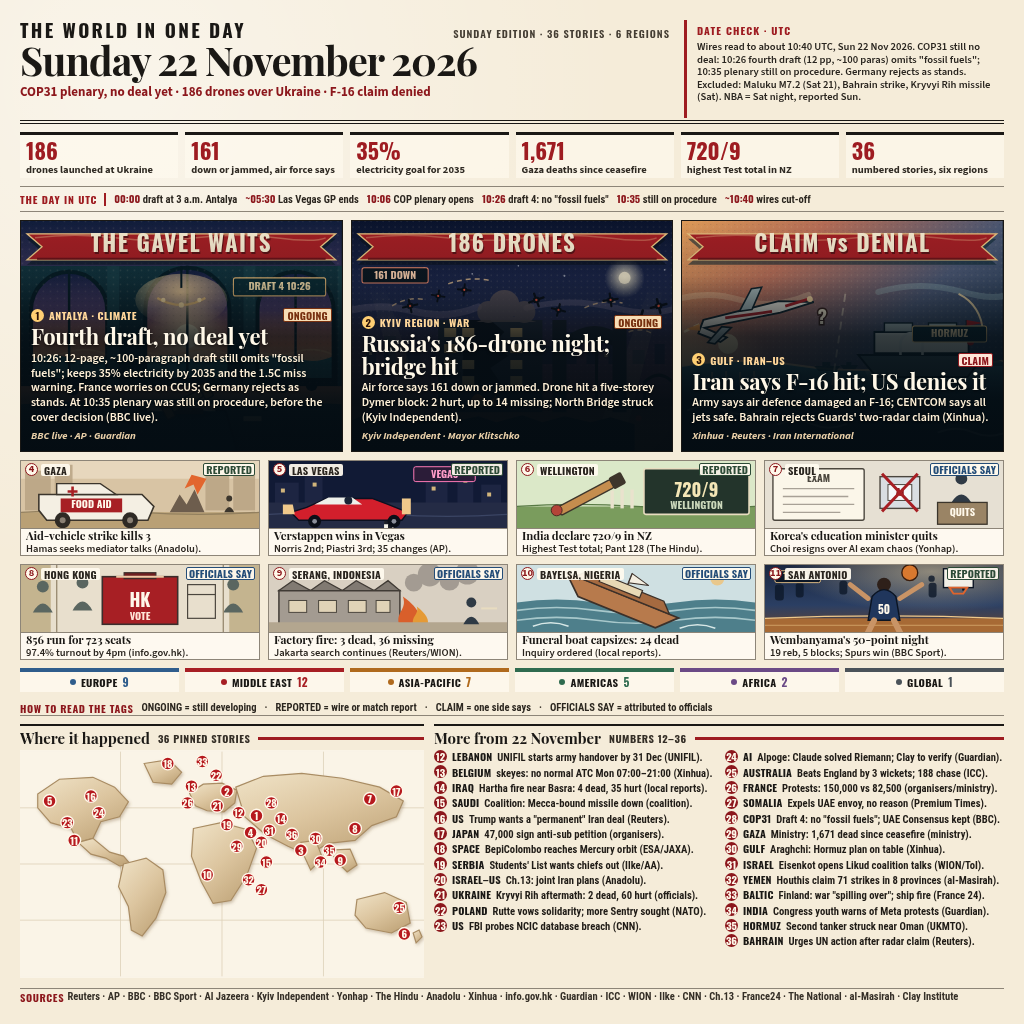
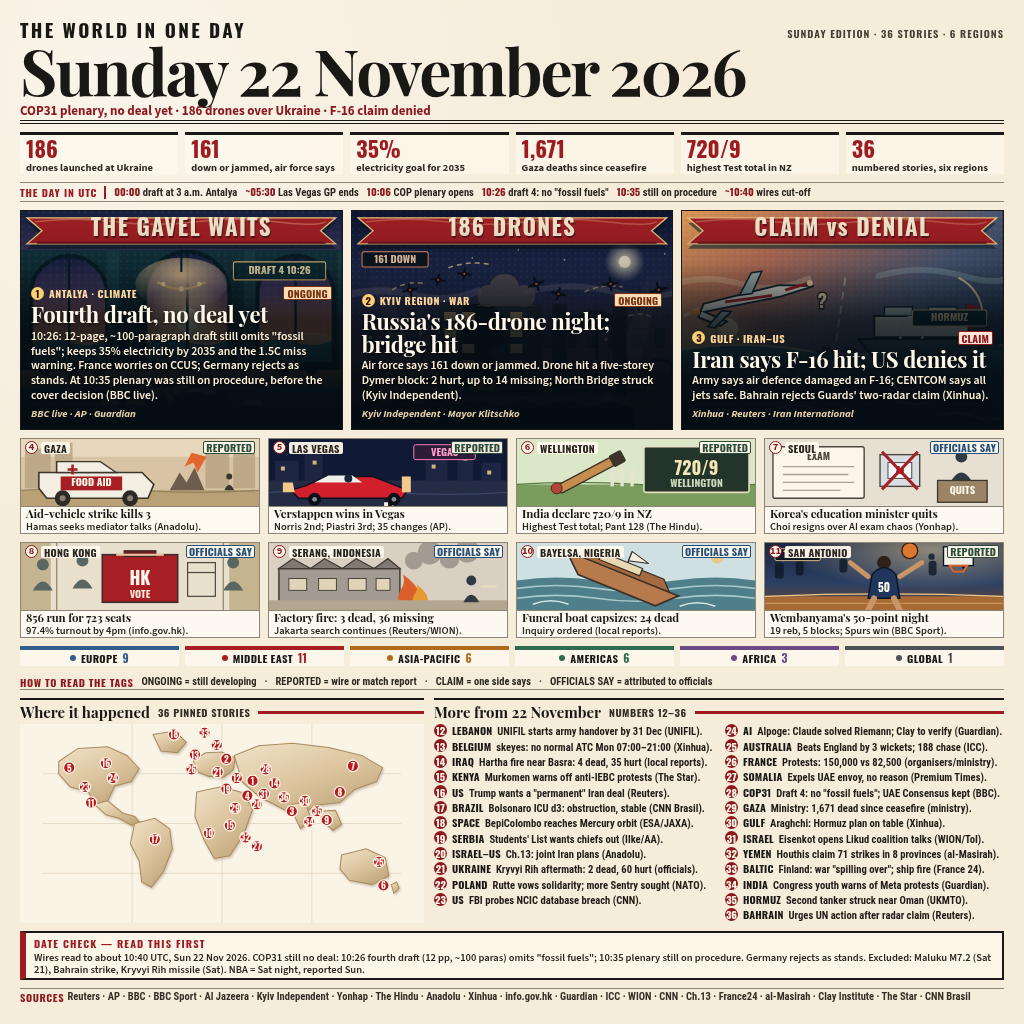
v8: dominant date masthead, Kenya/Brazil for breadth, DATE CHECK box

diff --git a/poster.html b/poster.html
@@ -31,7 +31,7 @@
     height: 1024px;
     padding: 20px;
     display: grid;
-    grid-template-rows: 104px 46px 26px 232px 200px 24px 16px 256px 16px;
+    grid-template-rows: 104px 42px 20px 220px 200px 20px 16px 225px 49px 16px;
     gap: 8px;
     overflow: hidden;
     background:
@@ -39,9 +39,7 @@
       var(--paper);
   }
   .masthead {
-    display: grid;
-    grid-template-columns: 1fr 320px;
-    gap: 14px;
+    display: block;
     border-bottom: 4px double var(--ink);
     padding-bottom: 2px;
     overflow: hidden;
@@ -49,11 +47,11 @@
   .mast-top { display: flex; justify-content: space-between; align-items: baseline; height: 18px; }
   .logo { font-family: "Oswald", sans-serif; font-size: 19px; font-weight: 700; letter-spacing: 2.3px; line-height: 1; }
   .edition { font-family: "Oswald", sans-serif; font-size: 10.5px; font-weight: 600; letter-spacing: 1px; color: var(--muted); }
-  .date { font-family: "Playfair Display", Georgia, serif; font-size: 40px; font-weight: 700; letter-spacing: -1.1px; line-height: 1; margin: 2px 0 4px; }
-  .deck { font-size: 13px; font-weight: 700; line-height: 16px; color: #8c171c; }
-  .datecheck { border-left: 3px solid var(--red); padding: 2px 0 0 10px; overflow: hidden; }
-  .datecheck h2 { font-family: "Oswald", sans-serif; font-size: 10.5px; font-weight: 700; letter-spacing: 1.1px; color: var(--red); margin: 0 0 3px; }
-  .datecheck p { font-size: 10.6px; font-weight: 600; line-height: 12.6px; margin: 0; color: #29251f; }
+  .date { font-family: "Playfair Display", Georgia, serif; font-size: 64px; font-weight: 700; letter-spacing: -2px; line-height: 1; margin: 0 0 2px; }
+  .deck { font-size: 13px; font-weight: 700; line-height: 14px; color: #8c171c; }
+  .datecheck { border: 2px solid var(--ink); border-left: 6px solid var(--red); background: rgba(255,250,239,.72); padding: 2px 8px; overflow: hidden; }
+  .datecheck h2 { font-family: "Oswald", sans-serif; font-size: 10.5px; font-weight: 700; letter-spacing: 1.1px; color: var(--red); margin: 0 0 1px; }
+  .datecheck p { font-size: 10.5px; font-weight: 600; line-height: 12px; margin: 0; color: #29251f; }
 
   .numbers { display: grid; grid-template-columns: repeat(6, 1fr); gap: 7px; }
   .stat {
@@ -199,7 +197,7 @@
   .panel-head { display: flex; align-items: center; gap: 8px; font-family: "Playfair Display", Georgia, serif; font-size: 15px; font-weight: 700; line-height: 18px; margin-bottom: 3px; white-space: nowrap; min-width: 0; }
   .panel-head::after { content: ""; flex: 1; height: 3px; background: var(--red); }
   .panel-head span { font-family: "Oswald", sans-serif; font-size: 10.5px; font-weight: 700; letter-spacing: .5px; color: #352f27; }
-  .map-wrap { width: 100%; height: 228px; background: #faf4e7; overflow: hidden; }
+  .map-wrap { width: 100%; height: 199px; background: #faf4e7; overflow: hidden; }
   .map-wrap svg { display: block; width: 100%; height: 100%; }
   .land { fill: url(#map-land); stroke: #a98c63; stroke-width: 1.2; filter: url(#map-shadow); }
   .gridline { stroke: #ddd0b8; stroke-width: .8; }
@@ -253,10 +251,6 @@
       <div class="date">Sunday 22 November 2026</div>
       <div class="deck">COP31 plenary, no deal yet · 186 drones over Ukraine · F-16 claim denied</div>
     </div>
-    <aside class="datecheck">
-      <h2>DATE CHECK · UTC</h2>
-      <p>Wires read to about 10:40 UTC, Sun 22 Nov 2026. COP31 still no deal: 10:26 fourth draft (12 pp, ~100 paras) omits "fossil fuels"; 10:35 plenary still on procedure. Germany rejects as stands. Excluded: Maluku M7.2 (Sat 21), Bahrain strike, Kryvyi Rih missile (Sat). NBA = Sat night, reported Sun.</p>
-    </aside>
   </header>
 
   <section class="numbers" aria-label="The day in numbers">
@@ -806,10 +800,10 @@
 
   <section class="regions" aria-label="Region coverage">
     <div class="region" style="--c: var(--eu)"><i></i>EUROPE <b>9</b></div>
-    <div class="region" style="--c: var(--me)"><i></i>MIDDLE EAST <b>12</b></div>
-    <div class="region" style="--c: var(--ap)"><i></i>ASIA-PACIFIC <b>7</b></div>
-    <div class="region" style="--c: var(--am)"><i></i>AMERICAS <b>5</b></div>
-    <div class="region" style="--c: var(--af)"><i></i>AFRICA <b>2</b></div>
+    <div class="region" style="--c: var(--me)"><i></i>MIDDLE EAST <b>11</b></div>
+    <div class="region" style="--c: var(--ap)"><i></i>ASIA-PACIFIC <b>6</b></div>
+    <div class="region" style="--c: var(--am)"><i></i>AMERICAS <b>6</b></div>
+    <div class="region" style="--c: var(--af)"><i></i>AFRICA <b>3</b></div>
     <div class="region" style="--c: var(--gl)"><i></i>GLOBAL <b>1</b></div>
   </section>
 
@@ -867,9 +861,9 @@
           <g class="pin" transform="translate(222 62)"><circle r="6.5"/><text>12</text></g>
           <g class="pin" transform="translate(174 35)"><circle r="6.5"/><text>13</text></g>
           <g class="pin" transform="translate(265 68)"><circle r="6.5"/><text>14</text></g>
-          <g class="pin" transform="translate(250 112)"><circle r="6.5"/><text>15</text></g>
+          <g class="pin" transform="translate(214 116)"><circle r="6.5"/><text>15</text></g>
           <g class="pin" transform="translate(72 45)"><circle r="6.5"/><text>16</text></g>
-          <g class="pin" transform="translate(382 40)"><circle r="6.5"/><text>17</text></g>
+          <g class="pin" transform="translate(128 132)"><circle r="6.5"/><text>17</text></g>
           <g class="pin" transform="translate(150 12)"><circle r="6.5"/><text>18</text></g>
           <g class="pin" transform="translate(210 74)"><circle r="6.5"/><text>19</text></g>
           <g class="pin" transform="translate(245 92)"><circle r="6.5"/><text>20</text></g>
@@ -900,9 +894,9 @@
           <li><span class="num">12</span><b>LEBANON</b><span>UNIFIL starts army handover by 31 Dec (UNIFIL).</span></li>
           <li><span class="num">13</span><b>BELGIUM</b><span>skeyes: no normal ATC Mon 07:00–21:00 (Xinhua).</span></li>
           <li><span class="num">14</span><b>IRAQ</b><span>Hartha fire near Basra: 4 dead, 35 hurt (local reports).</span></li>
-          <li><span class="num">15</span><b>SAUDI</b><span>Coalition: Mecca-bound missile down (coalition).</span></li>
+          <li><span class="num">15</span><b>KENYA</b><span>Murkomen warns off anti-IEBC protests (The Star).</span></li>
           <li><span class="num">16</span><b>US</b><span>Trump wants a "permanent" Iran deal (Reuters).</span></li>
-          <li><span class="num">17</span><b>JAPAN</b><span>47,000 sign anti-sub petition (organisers).</span></li>
+          <li><span class="num">17</span><b>BRAZIL</b><span>Bolsonaro ICU d3: obstruction, stable (CNN Brasil).</span></li>
           <li><span class="num">18</span><b>SPACE</b><span>BepiColombo reaches Mercury orbit (ESA/JAXA).</span></li>
           <li><span class="num">19</span><b>SERBIA</b><span>Students' List wants chiefs out (Ilke/AA).</span></li>
           <li><span class="num">20</span><b>ISRAEL–US</b><span>Ch.13: joint Iran plans (Anadolu).</span></li>
@@ -929,8 +923,13 @@
     </div>
   </section>
 
+  <section class="datecheck">
+    <h2>DATE CHECK — READ THIS FIRST</h2>
+    <p>Wires read to about 10:40 UTC, Sun 22 Nov 2026. COP31 still no deal: 10:26 fourth draft (12 pp, ~100 paras) omits "fossil fuels"; 10:35 plenary still on procedure. Germany rejects as stands. Excluded: Maluku M7.2 (Sat 21), Bahrain strike, Kryvyi Rih missile (Sat). NBA = Sat night, reported Sun.</p>
+  </section>
+
   <footer class="sources">
-    <b>SOURCES&nbsp;</b>Reuters · AP · BBC · BBC Sport · Al Jazeera · Kyiv Independent · Yonhap · The Hindu · Anadolu · Xinhua · info.gov.hk · Guardian · ICC · WION · Ilke · CNN · Ch.13 · France24 · The National · al-Masirah · Clay Institute
+    <b>SOURCES&nbsp;</b>Reuters · AP · BBC · BBC Sport · Al Jazeera · Kyiv Independent · Yonhap · The Hindu · Anadolu · Xinhua · info.gov.hk · Guardian · ICC · WION · CNN · Ch.13 · France24 · al-Masirah · Clay Institute · The Star · CNN Brasil
   </footer>
 
 </div>
